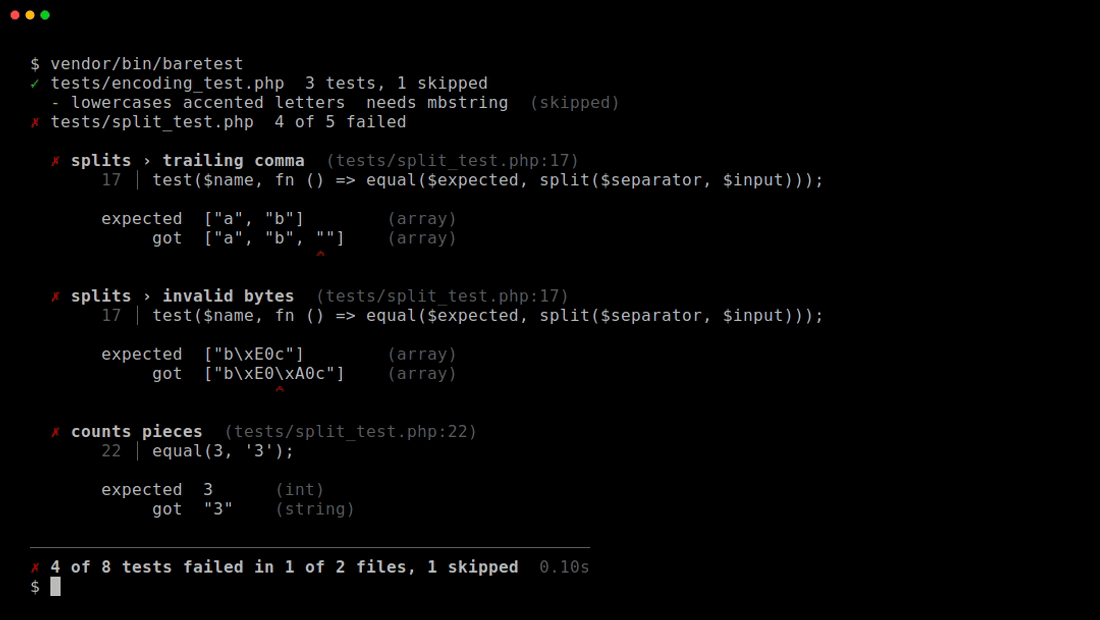
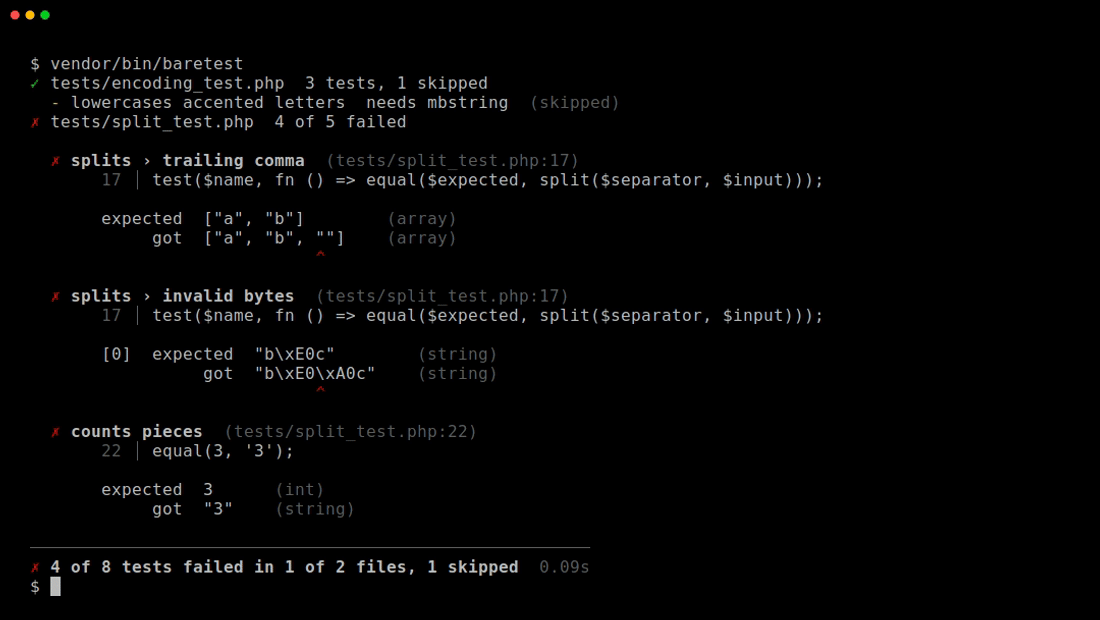
Explain how equal() shows the arrays that differ

Changed region(s): [[0.0927, 0.5516, 0.4636, 0.6129], [0.4945, 0.8887, 0.5255, 0.9194]]

diff --git a/README.md b/README.md
@@ -78,6 +78,8 @@ Five functions in the `Baretest` namespace are the whole API:
 
 A failure stops the test it happens in. Any other test, and any other subtest, still runs. A failed subtest also fails the test that contains it.
 
+When `equal()` fails on two arrays with the same keys in the same order, every element that differs is shown on its own, after its keys, up to five; otherwise the two values are shown whole. Long values are cut around the first byte that differs, which is marked with `^`.
+
 A warning, notice or deprecation fails the test, unless it was silenced with `@`. So does an uncaught exception.
 
 ### Running
